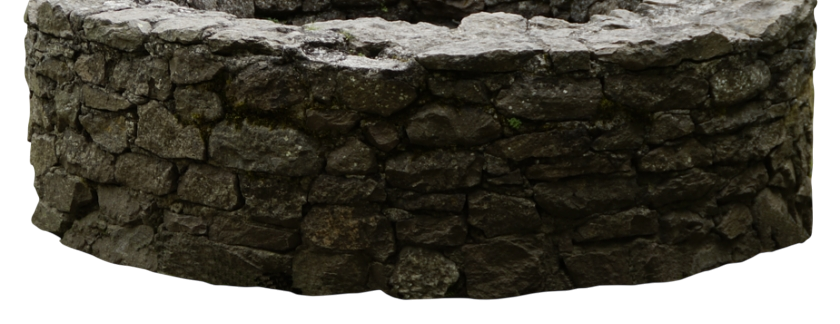
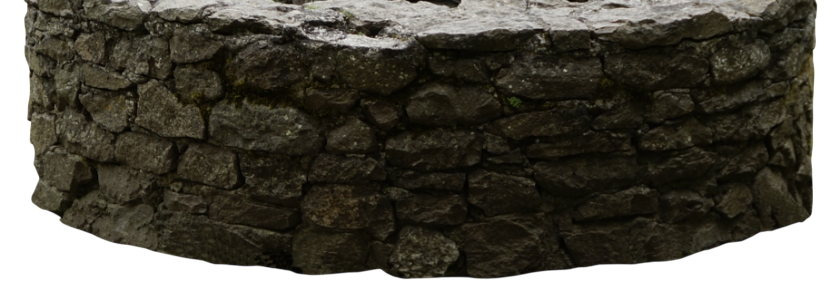
wellwellwell

diff --git a/main_casey.py b/main_casey.py
@@ -159,19 +159,16 @@ def draw_well():
     if well_img:
         # Draw the back part of the well first
         screen.blit(well_img, (450, 575))
-    else:
-        # Fallback if image doesn't exist
-        pygame.draw.rect(screen, (150, 75, 0), (500, 580, 100, 150))
 
 def draw_well_front():
     """Draw the front part of the well"""
     if well2_img:
         # Draw the front part of the well
-        screen.blit(well2_img, (450, 600))
+        screen.blit(well2_img, (450, 650))
 
 def enemy1_dead():
     if enemy1.alive == False:
-        draw_well()
+        draw_well_front()  # Only draw the front part here
 
 # ---------- ENEMY CLASS ----------
 class Enemy1(pygame.sprite.Sprite):
@@ -857,6 +854,10 @@ while run:
         draw_main_menu()
     elif game_state == 'playing':
         draw_bg()  # Now much faster!
+        
+        # Draw the well behind everything if enemy is dead
+        if not enemy1.alive:
+            draw_well()  # Draw back part of well first
 
         player.update_animation()
         player.draw()
@@ -893,9 +894,6 @@ while run:
             draw_enemy1_health_bar(enemy1)  # Draw enemy1 health bar
         elif enemy1.alive == False:
             enemy1_dead()  # Draw death effect and well when enemy is dead
-            
-        # Draw the front part of the well after characters
-        draw_well_front()
         
         # Check combat
         check_combat(player, enemy1)
